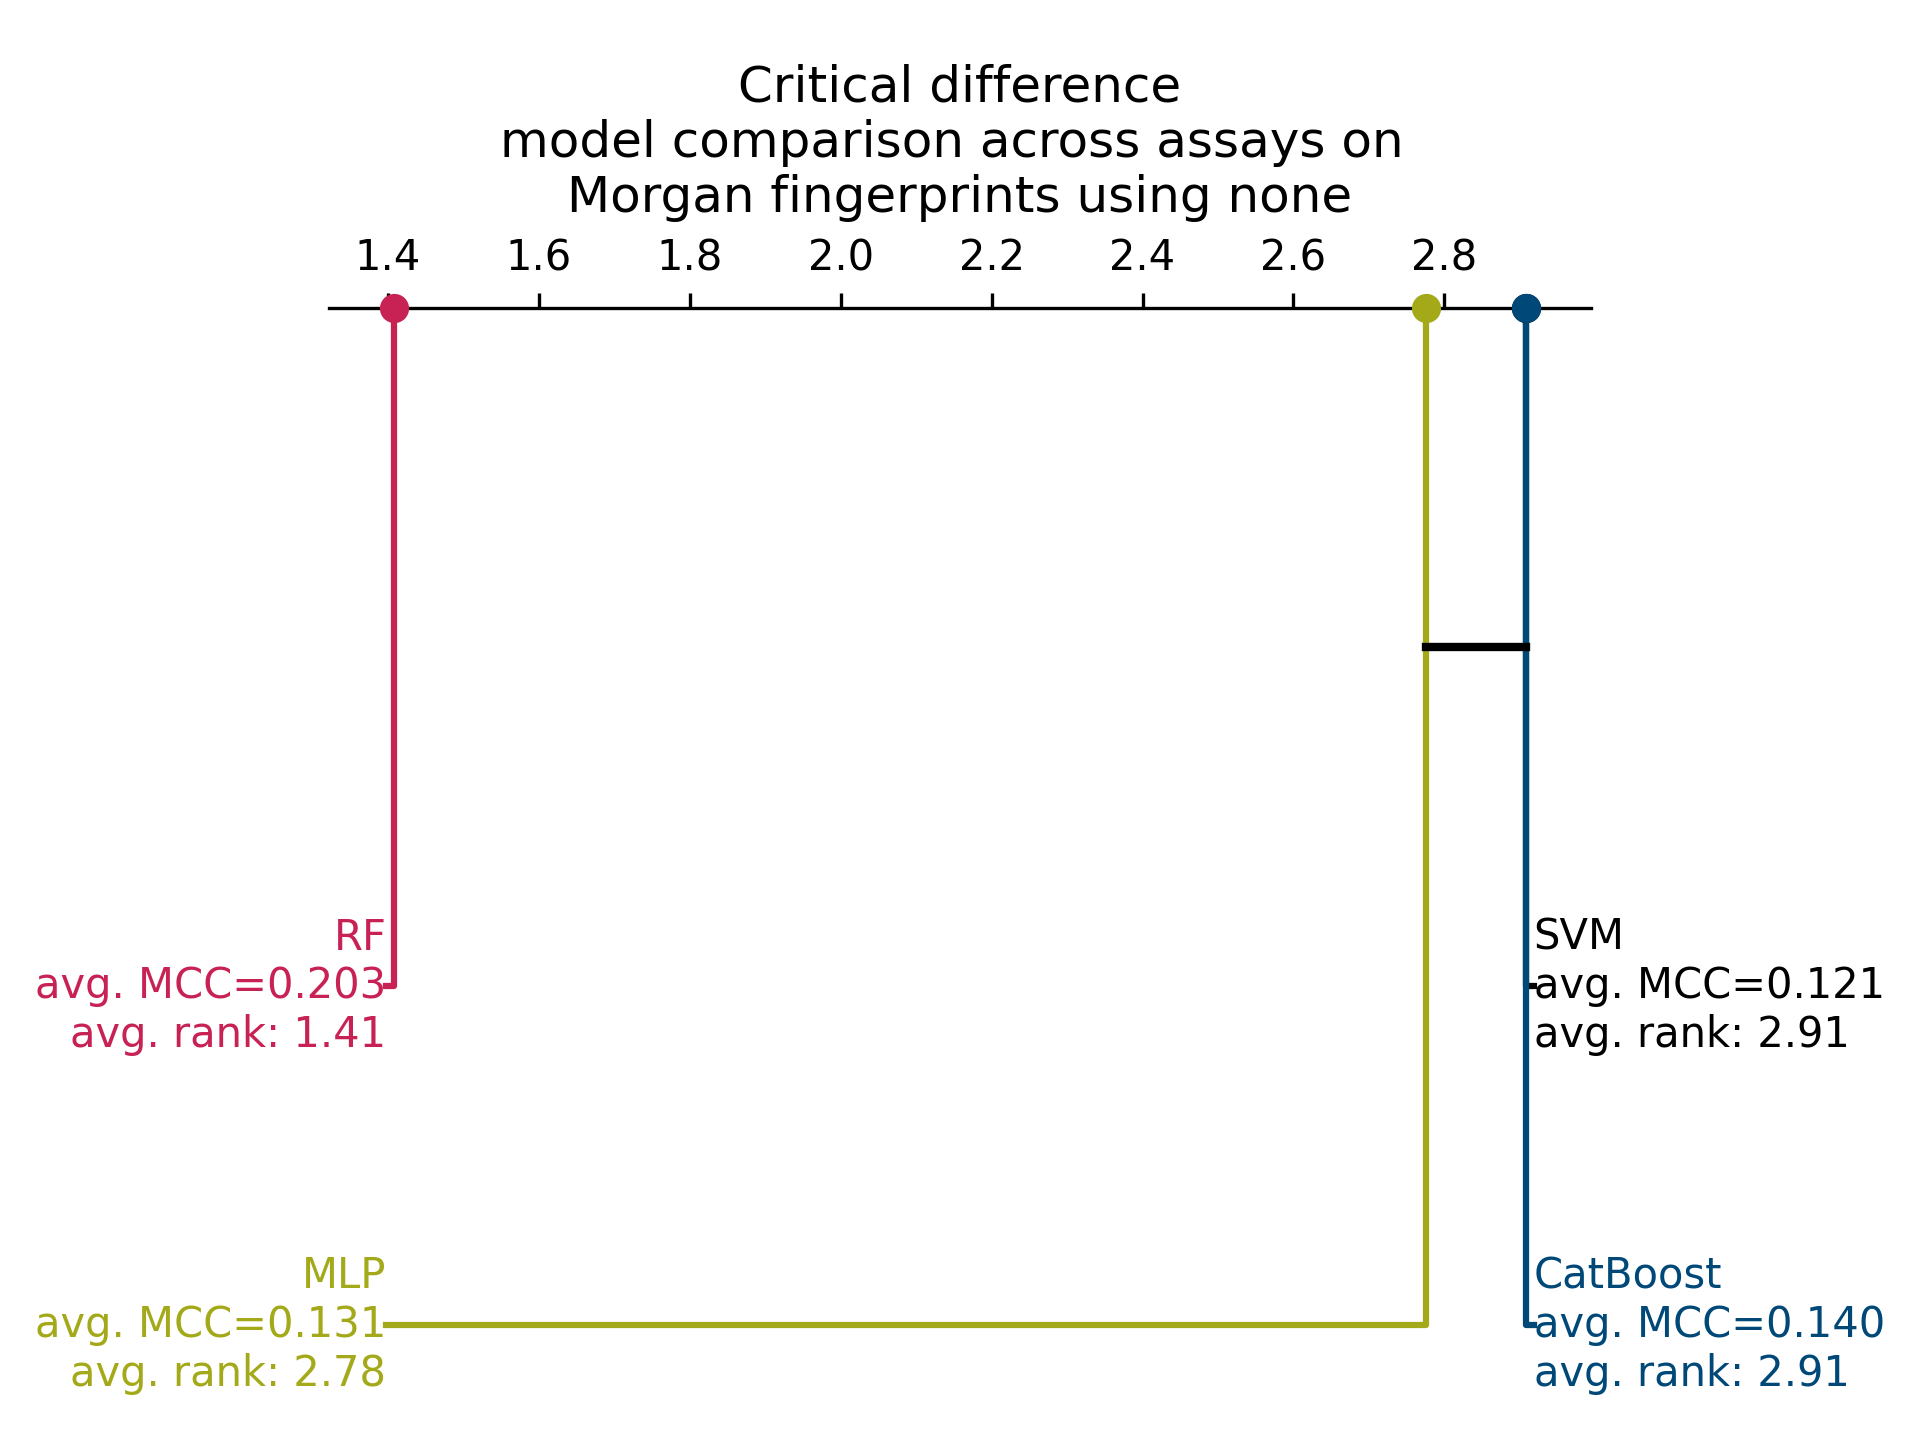
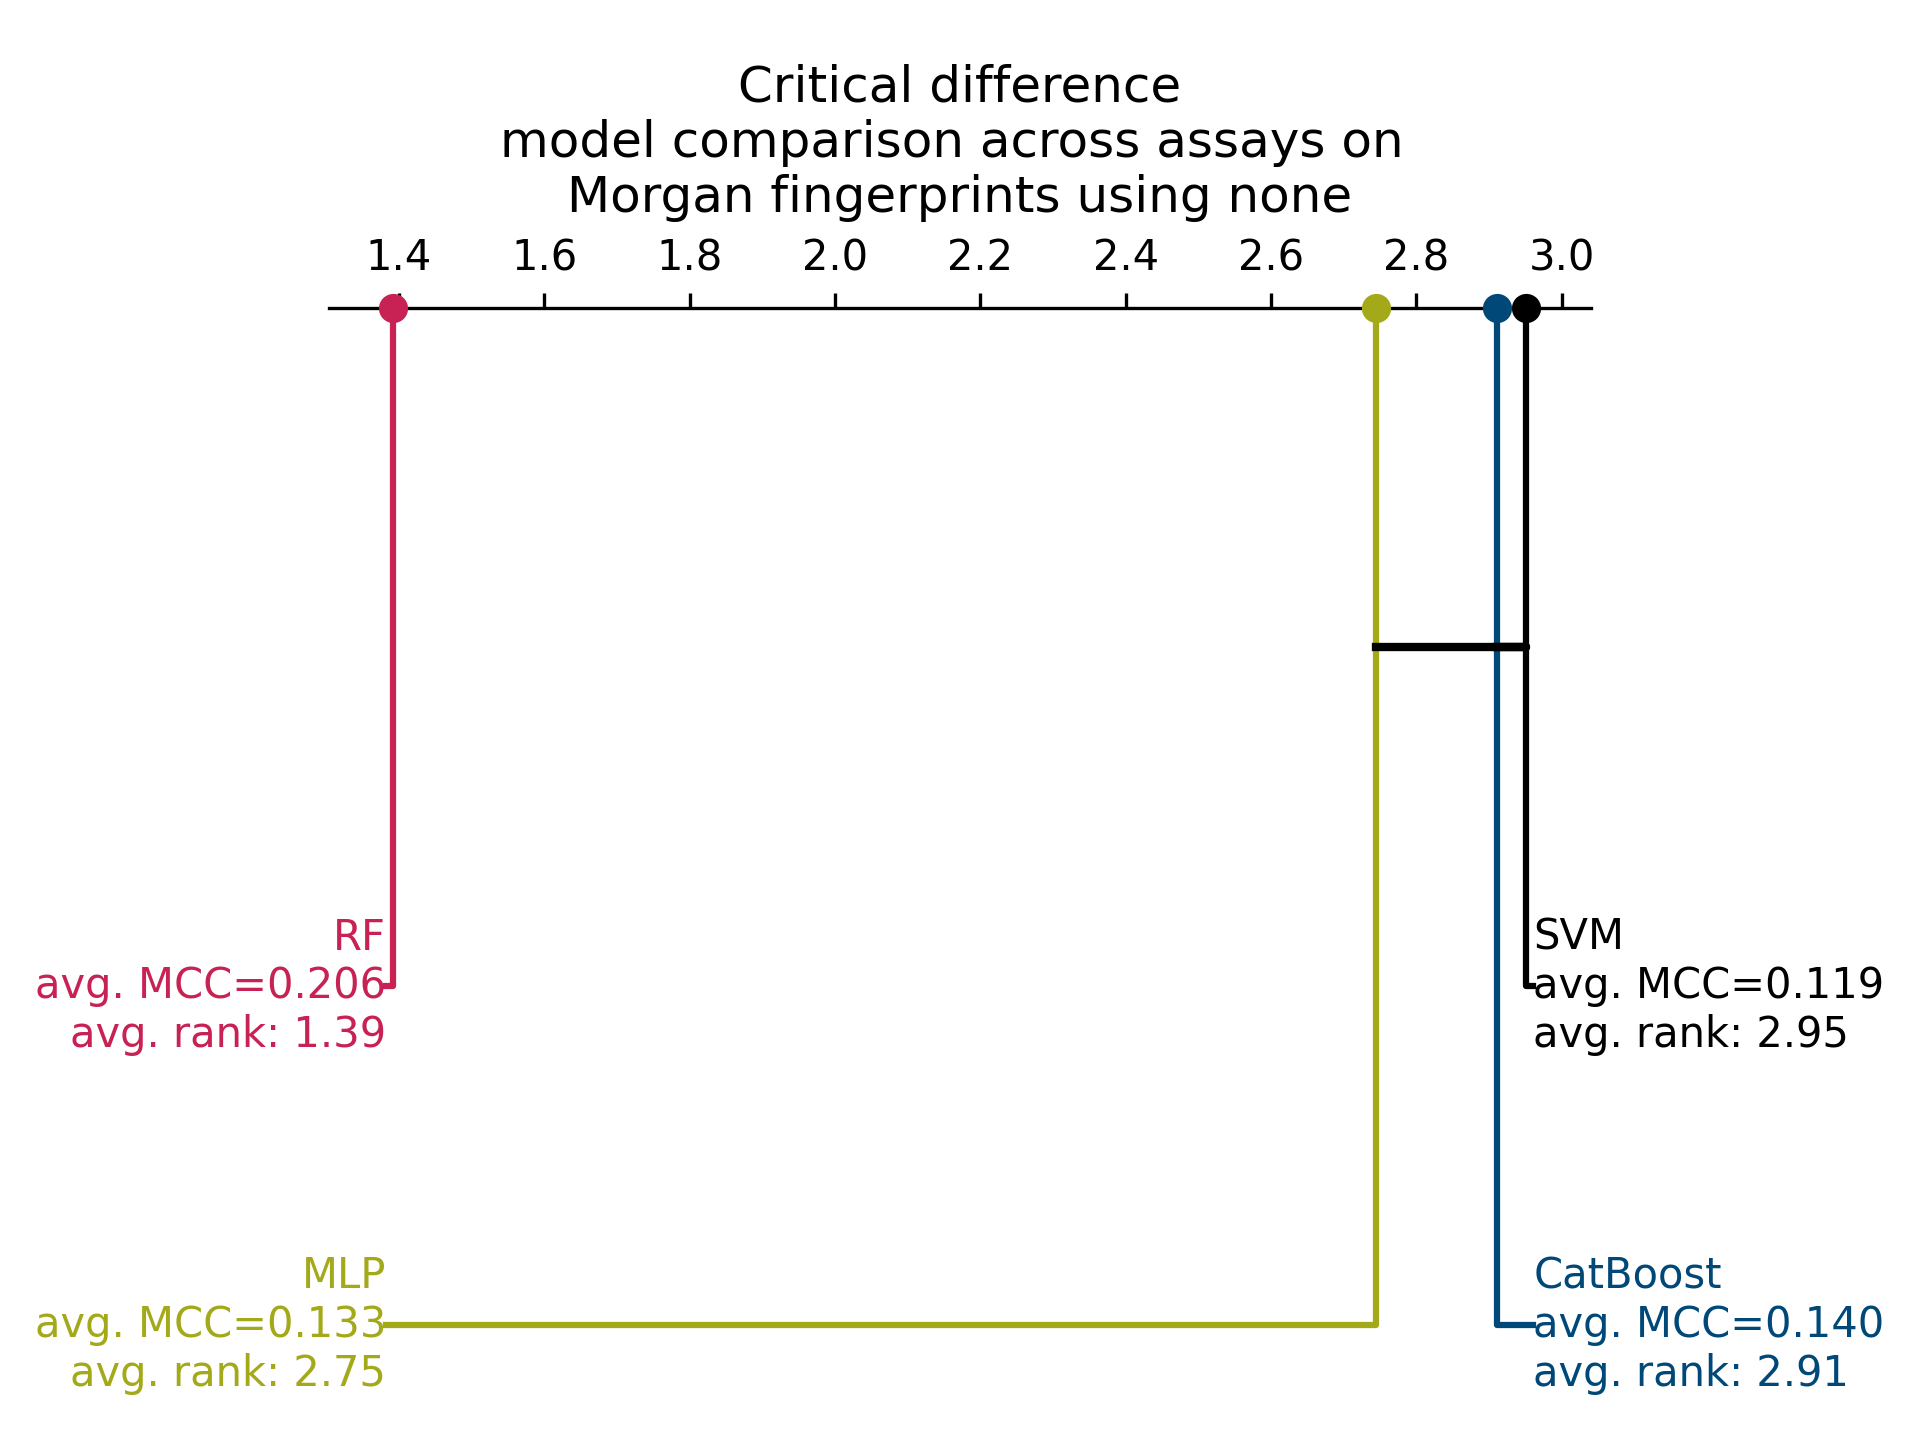
one more morgan none assay

diff --git a/evaluation/generate_model_comparison_per_feature_type_and_DR_method.py b/evaluation/generate_model_comparison_per_feature_type_and_DR_method.py
@@ -15,10 +15,9 @@ custom_palette = {
     "rf": "#c82254",
     "mlp": "#d7df23",
     "cat_boost": "#004877",
-    "svm": "#000000",
-    "tabpfn": "#6e6e6e"
+    "svm": "#000000"
 }
-model_order = ["rf", "cat_boost", "tabpfn", 'mlp', 'svm']
+model_order = ["rf", "cat_boost", 'mlp', 'svm']
 
 
 
@@ -395,8 +394,10 @@ def main(args):
             "cat_boost": "CatBoost",
         }
 
-    if not args.tabpfn_missing in ['y', 'yes', 'true', 't', 'True']:
+    if not (args.tabpfn_missing in ['y', 'yes', 'true', 't', 'True']):
         model_name_map["tabpfn"] =  "TabPFN"
+        custom_palette['tabpfn']  = "#6e6e6e"
+        model_order =  ["rf", "cat_boost", "tabpfn", 'mlp', 'svm']
     print(final_results)
     create_boxplots_per_assay(final_results=final_results, dr_method=dr_method, feature_name_map=feature_name_map, feature_type=feature_type, model_name_map=model_name_map, output_dir=out_dir)
     cd_plot_for_nemenyi(final_results, dr_method, model_name_map, feature_type, feature_name_map, output_dir=out_dir)
